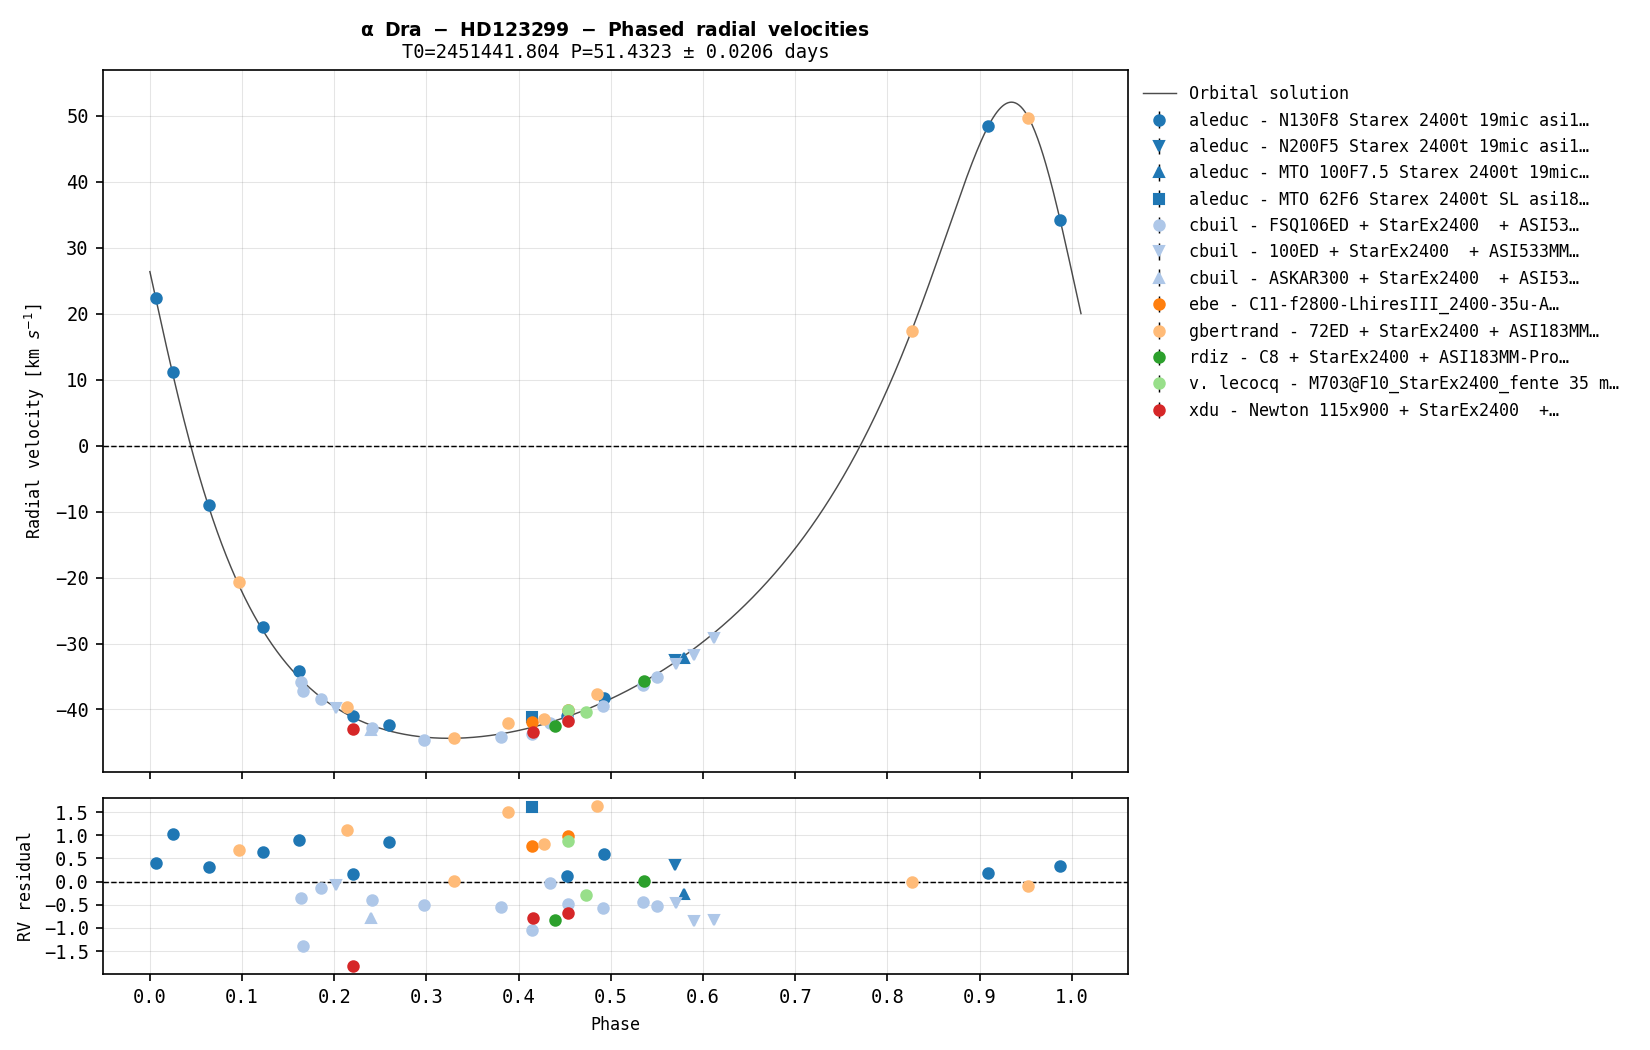
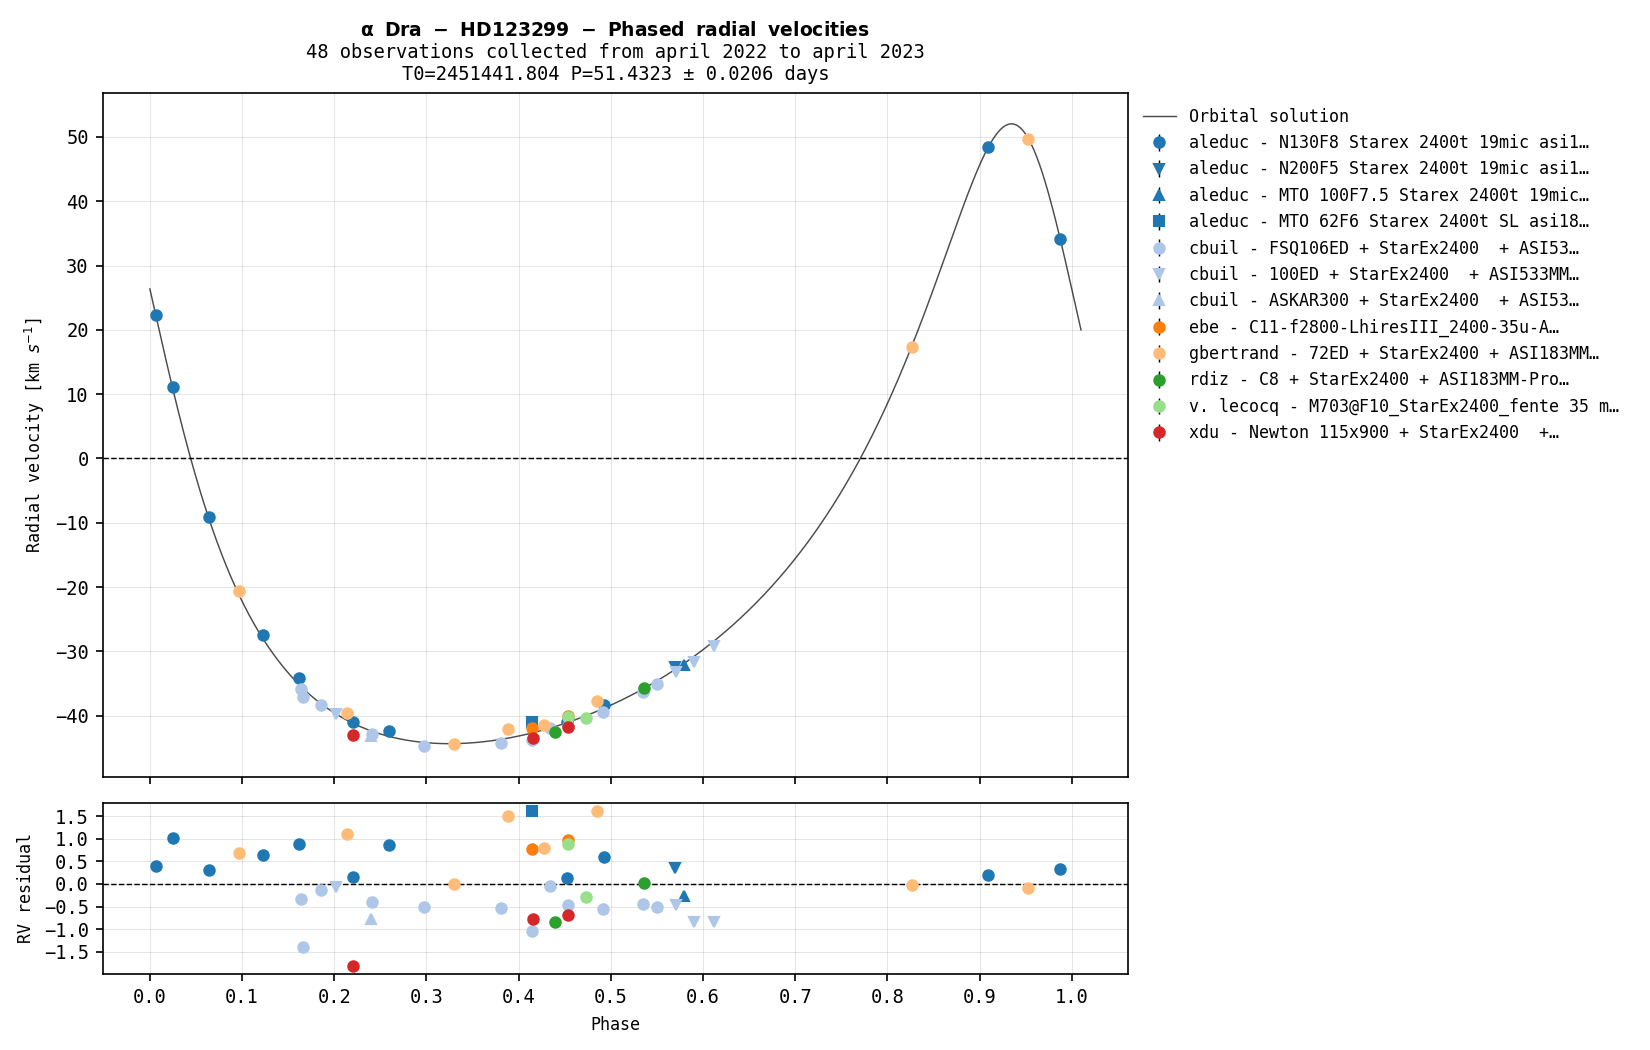
minor update + new pip version

diff --git a/spectroscopicbinarysystem/__init__.py b/spectroscopicbinarysystem/__init__.py
@@ -155,7 +155,7 @@ class SBSpectrum1D(Spectrum1D):
         c = const.c.to('km/s')
         self._rv = (c * ((self._center_of_line -
                     self._conf["LAMBDA_REF"]) / self._conf["LAMBDA_REF"])) + self._rv_corr
-        
+
     def getCenterOfLine(self):
         """
         Return the center of the line computed for the spectrum using a fit (non corrected from heliocentric/barycentric velocity)
@@ -295,20 +295,33 @@ class SpectroscopicBinarySystem:
             plt.rcParams['font.size'] = '6'
             plt.rcParams['font.family'] = 'monospace'
             grid_size = math.ceil(len(self._sb_spectra)/6)
-            fig, axs = plt.subplots(6,grid_size, figsize=(13,7), sharex=True, sharey=True)
+            fig, axs = plt.subplots(6, grid_size, figsize=(
+                13, 7), sharex=True, sharey=True)
             for i, s in enumerate(self._sb_spectra):
                 ax = axs.flat[i]
                 extracted_profil, line_fitting = s.getDebugLineFitting()
-                ax.set_title(f'{s.getBaseName()}\n{s.getObserver()} JD={s.getJD()}', fontsize="6")
+                ax.set_title(
+                    f'{s.getBaseName()}\n{s.getObserver()} JD={s.getJD()}', fontsize="6")
                 ax.grid(True)
                 ax.tick_params(axis='both', which='major', labelsize=6)
                 ax.tick_params(axis='both', which='minor', labelsize=6)
-                ax.plot(extracted_profil.spectral_axis.to(u.AA), extracted_profil.flux, color="k")
-                ax.plot(extracted_profil.spectral_axis.to(u.AA), line_fitting, color="r")
-                ax.axvline(x=s.getCenterOfLine(), color='r', linestyle='-',lw=0.7)
+                ax.plot(extracted_profil.spectral_axis.to(
+                    u.AA), extracted_profil.flux, color="k")
+                ax.plot(extracted_profil.spectral_axis.to(
+                    u.AA), line_fitting, color="r")
+                ax.axvline(x=s.getCenterOfLine(),
+                           color='r', linestyle='-', lw=0.7)
             plt.tight_layout(pad=0.8, w_pad=2, h_pad=1)
             plt.savefig(f'{self._spectra_path}/sbs_debug_result.png', dpi=150)
             plt.show()
+
+    def getObservationCount(self):
+        """
+        Return the count of processed spectra
+        :return: count
+        :rtype: int
+        """
+        return len(self._sb_spectra)
 
     def __getPhase(self, jd0, period, jd):
         """

diff --git a/test.py b/test.py
@@ -17,7 +17,9 @@ sbs = SpectroscopicBinarySystem(
     debug=True)
 
 sbs.plotRadialVelocityCurve(
-    title="α Dra - HD123299 - Phased radial velocities", savefig=True)
+    title="α Dra - HD123299 - Phased radial velocities",
+    subtitle=f"{sbs.getObservationCount()} observations collected from april 2022 to april 2023",
+    savefig=True)
 
 # sbs.plotlyRadialVelocityCurve(
 #     title="α Dra - HD123299 - Phased radial velocities",
